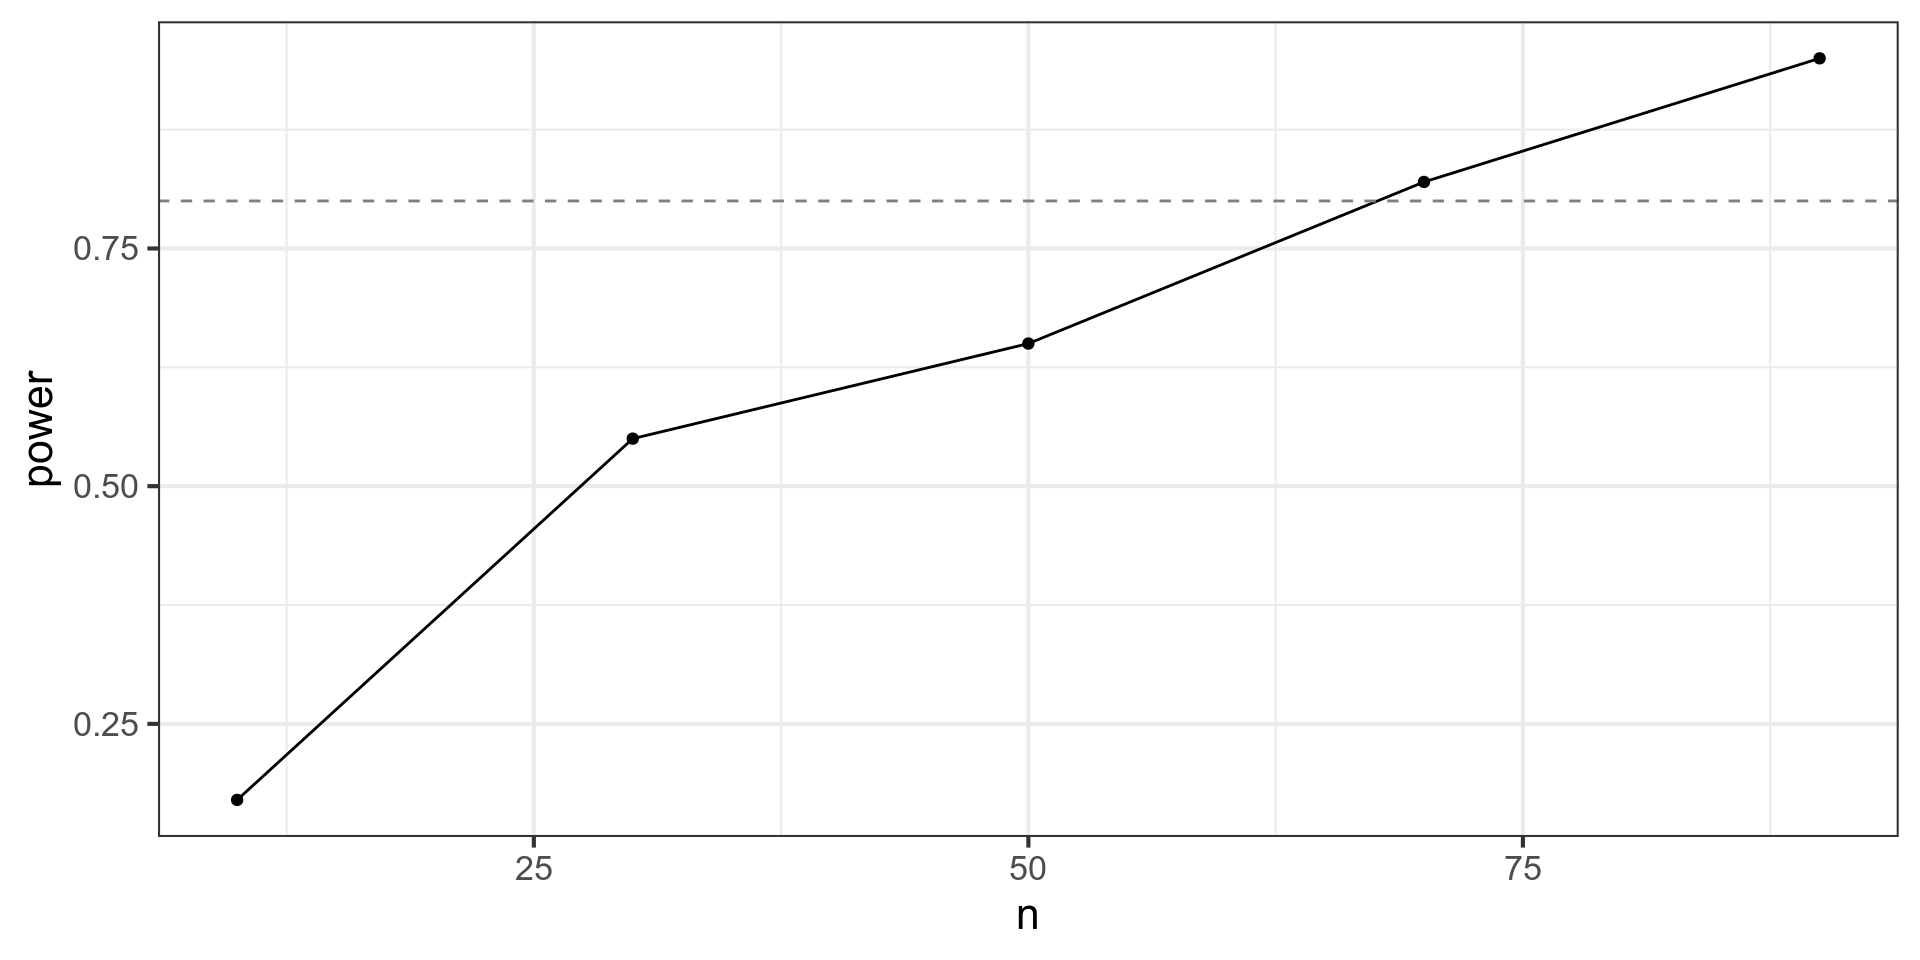
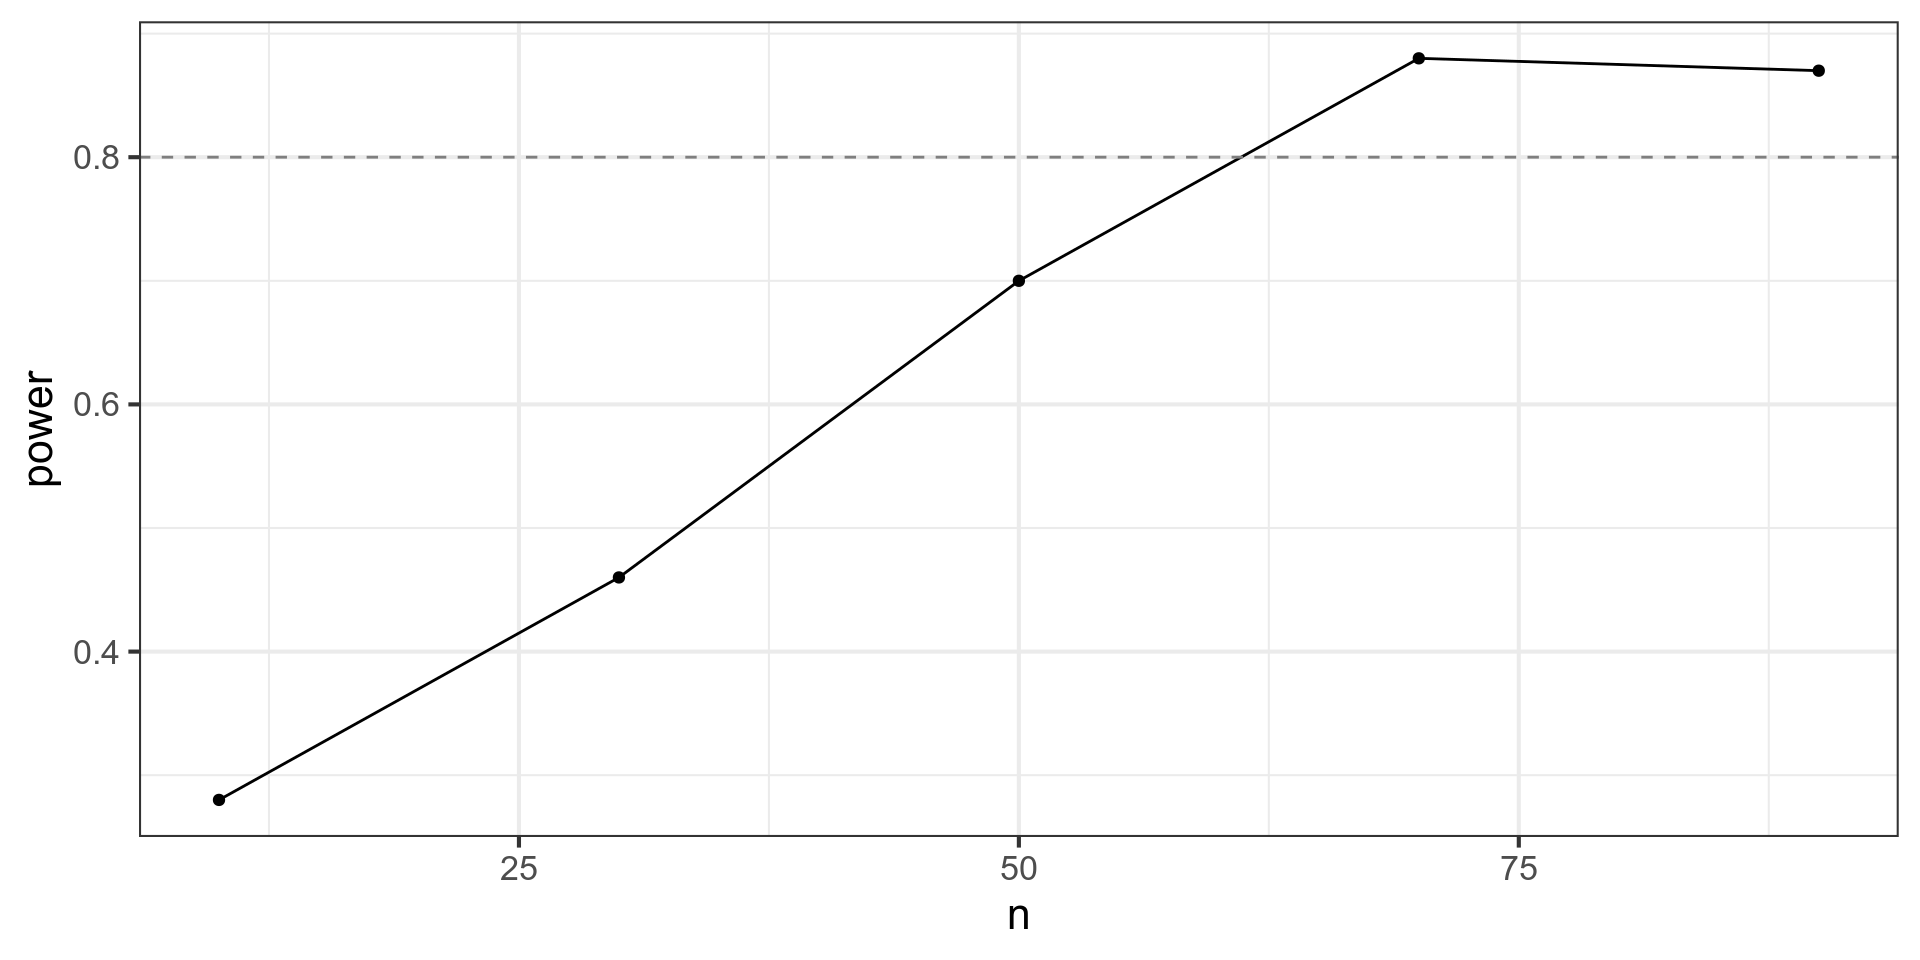
simplify code

diff --git a/power-analysis.html b/power-analysis.html
@@ -527,20 +527,20 @@ NOTE: n is number in *each* group</code></pre>
     Welch Two Sample t-test
 
 data:  y by x
-t = -1.7791, df = 52.733, p-value = 0.08099
+t = -2.468, df = 56.295, p-value = 0.01665
 alternative hypothesis: true difference in means between group A and group B is not equal to 0
 95 percent confidence interval:
- -2.2810878  0.1367533
+ -2.1882259 -0.2275608
 sample estimates:
 mean in group A mean in group B 
-     0.07323997      1.14540719 </code></pre>
+     -0.4047832       0.8031102 </code></pre>
 </div>
 <div class="sourceCode cell-code" id="cb7"><pre class="sourceCode numberSource r number-lines code-with-copy"><code class="sourceCode r"><span id="cb7-1"><a href="#cb7-1"></a>broom<span class="sc">::</span><span class="fu">glance</span>(test)</span></code><button title="Copy to Clipboard" class="code-copy-button"><i class="bi"></i></button></pre></div>
 <div class="cell-output cell-output-stdout">
 <pre><code># A tibble: 1 × 10
   estimate estimate1 estimate2 statistic p.value parameter conf.low conf.high
      &lt;dbl&gt;     &lt;dbl&gt;     &lt;dbl&gt;     &lt;dbl&gt;   &lt;dbl&gt;     &lt;dbl&gt;    &lt;dbl&gt;     &lt;dbl&gt;
-1    -1.07    0.0732      1.15     -1.78  0.0810      52.7    -2.28     0.137
+1    -1.21    -0.405     0.803     -2.47  0.0167      56.3    -2.19    -0.228
 # … with 2 more variables: method &lt;chr&gt;, alternative &lt;chr&gt;</code></pre>
 </div>
 </div>
@@ -566,7 +566,7 @@ mean in group A mean in group B
 <pre><code># A tibble: 1 × 13
   estimate estimate1 estimate2 statistic p.value parameter conf.low conf.high
      &lt;dbl&gt;     &lt;dbl&gt;     &lt;dbl&gt;     &lt;dbl&gt;   &lt;dbl&gt;     &lt;dbl&gt;    &lt;dbl&gt;     &lt;dbl&gt;
-1   -0.934     0.248      1.18     -1.88  0.0649      58.0    -1.93    0.0597
+1    -1.29    -0.332     0.955     -2.36  0.0215      58.0    -2.38    -0.197
 # … with 5 more variables: method &lt;chr&gt;, alternative &lt;chr&gt;, n &lt;dbl&gt;,
 #   delta &lt;dbl&gt;, sd &lt;dbl&gt;</code></pre>
 </div>
@@ -577,10 +577,10 @@ mean in group A mean in group B
 <div class="cell">
 <div class="sourceCode cell-code" id="cb11"><pre class="sourceCode numberSource r number-lines code-with-copy"><code class="sourceCode r"><span id="cb11-1"><a href="#cb11-1"></a>nrep <span class="ot">=</span> <span class="dv">100</span></span>
 <span id="cb11-2"><a href="#cb11-2"></a></span>
-<span id="cb11-3"><a href="#cb11-3"></a>control <span class="ot">&lt;-</span> <span class="fu">crossing</span>(<span class="at">rep_no =</span> <span class="dv">1</span><span class="sc">:</span>nrep, <span class="at">n =</span> <span class="fu">seq</span>(<span class="dv">10</span>, <span class="dv">100</span>, <span class="dv">20</span>)) </span>
+<span id="cb11-3"><a href="#cb11-3"></a>n <span class="ot">&lt;-</span> <span class="fu">rep</span>(<span class="fu">seq</span>(<span class="dv">10</span>, <span class="dv">100</span>, <span class="dv">20</span>), <span class="at">each =</span> nrep)</span>
 <span id="cb11-4"><a href="#cb11-4"></a></span>
-<span id="cb11-5"><a href="#cb11-5"></a>runs <span class="ot">&lt;-</span> control <span class="sc">|&gt;</span> </span>
-<span id="cb11-6"><a href="#cb11-6"></a>  <span class="fu">pmap_df</span>(<span class="cf">function</span>(n, rep_no) <span class="fu">sim_t_test</span>(<span class="at">n =</span> n, <span class="at">delta =</span> <span class="dv">1</span>, <span class="at">sd =</span> <span class="dv">2</span>)) <span class="sc">|&gt;</span> </span>
+<span id="cb11-5"><a href="#cb11-5"></a>runs <span class="ot">&lt;-</span> n <span class="sc">|&gt;</span> </span>
+<span id="cb11-6"><a href="#cb11-6"></a>  <span class="fu">map_dfr</span>(<span class="sc">~</span><span class="fu">sim_t_test</span>(<span class="at">n =</span> .x, <span class="at">delta =</span> <span class="dv">1</span>, <span class="at">sd =</span> <span class="dv">2</span>)) <span class="sc">|&gt;</span> </span>
 <span id="cb11-7"><a href="#cb11-7"></a>  <span class="fu">mutate</span>(<span class="at">sig =</span> p.value <span class="sc">&lt;=</span> <span class="fl">0.05</span>)</span>
 <span id="cb11-8"><a href="#cb11-8"></a></span>
 <span id="cb11-9"><a href="#cb11-9"></a>p <span class="ot">&lt;-</span> runs  <span class="sc">|&gt;</span> </span>
@@ -591,14 +591,18 @@ mean in group A mean in group B
 <span id="cb11-14"><a href="#cb11-14"></a>  <span class="fu">geom_point</span>()</span></code><button title="Copy to Clipboard" class="code-copy-button"><i class="bi"></i></button></pre></div>
 </div>
 </section>
-<section id="section-2" class="slide level2">
-<h2></h2>
+<section class="slide level2">
+
 
 <img data-src="power-analysis_files/figure-revealjs/unnamed-chunk-5-1.png" width="960" class="r-stretch"></section>
 <section id="magnitude-of-effect" class="slide level2">
 <h2>Magnitude of Effect</h2>
 
 <img data-src="power-analysis_files/figure-revealjs/unnamed-chunk-6-1.png" width="960" class="r-stretch"></section>
+<section id="help-for-simulating-data" class="slide level2">
+<h2>Help for simulating data</h2>
+<p><a href="https://debruine.github.io/faux/"><code>faux</code></a> package</p>
+</section>
 <section id="summary" class="slide level2">
 <h2>Summary</h2>
 <ul>
